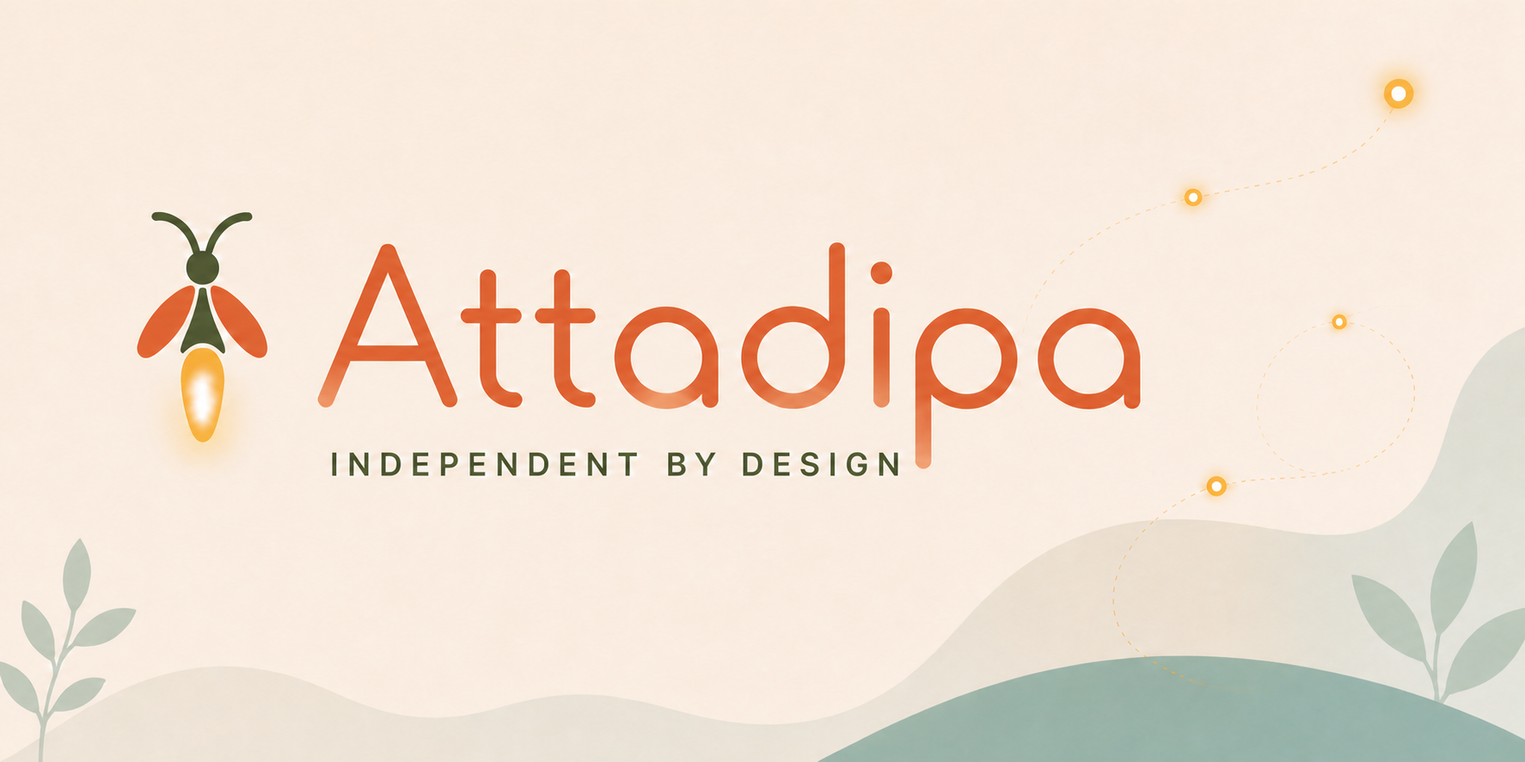
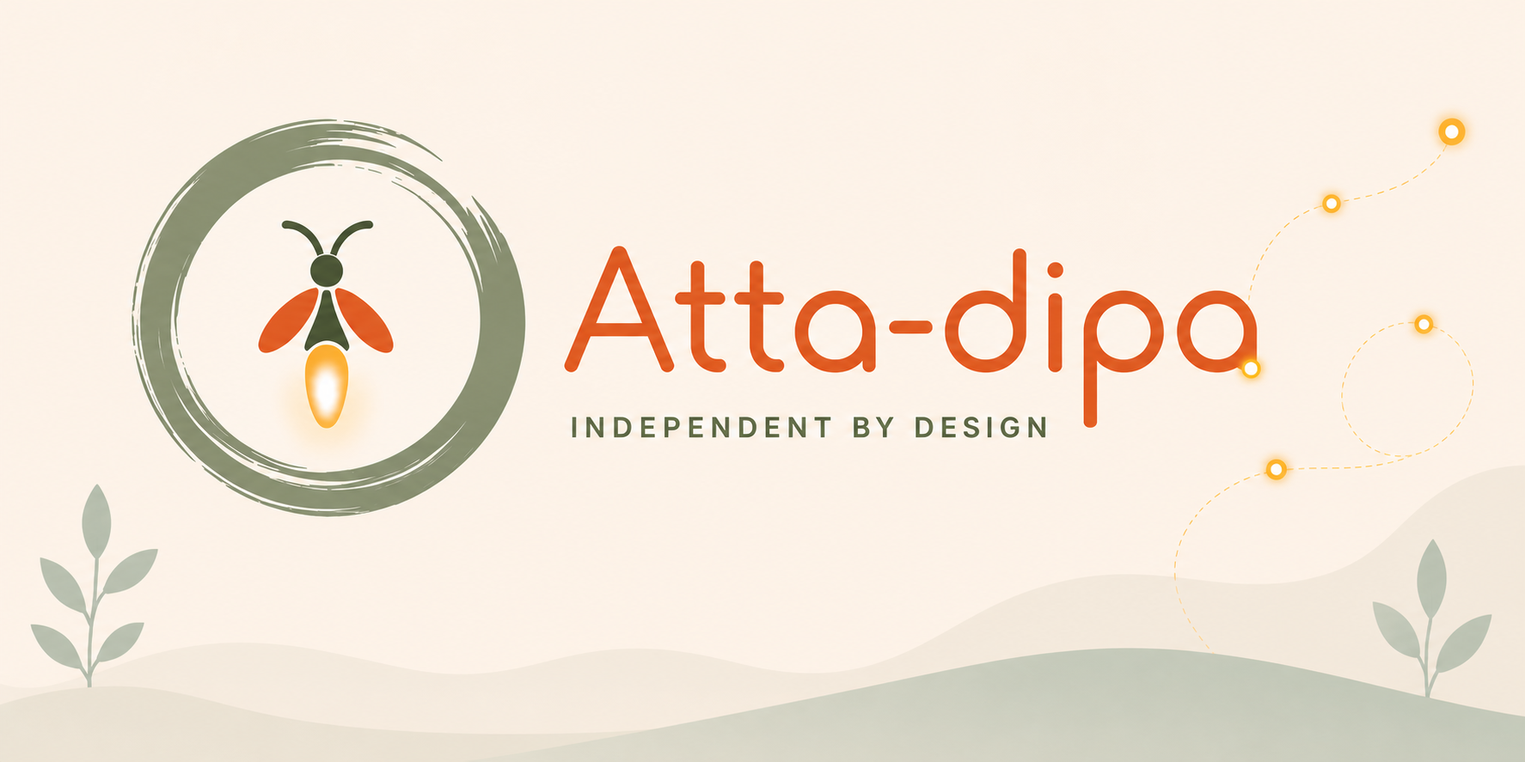
Brand public pages as Atta-dipa

diff --git a/docs/index.html b/docs/index.html
@@ -5,30 +5,30 @@
   <meta name="viewport" content="width=device-width, initial-scale=1">
   <meta name="theme-color" content="#FFF6E8">
   <meta name="color-scheme" content="light dark">
-  <title>Attadipa — open-source ESP32-S3 smartwatch firmware, LoRa mesh, offline GNSS</title>
+  <title>Atta-dipa — open-source ESP32-S3 smartwatch firmware, LoRa mesh, offline GNSS</title>
   <meta name="description" content="Open-source ESP32-S3 smartwatch firmware: LoRa MeshCore messaging, offline GNSS navigation, LVGL UI on FreeRTOS. Early stage — the firmware has not run on a board yet; only bench code has.">
   <meta name="robots" content="index, follow, max-image-preview:large, max-snippet:-1">
   <link rel="canonical" href="https://hleserg.github.io/Attadipa/">
   <link rel="alternate" type="text/html" hreflang="x-default" href="https://hleserg.github.io/Attadipa/">
 
   <meta property="og:type" content="website">
-  <meta property="og:site_name" content="Attadipa">
+  <meta property="og:site_name" content="Atta-dipa">
   <meta property="og:locale" content="en_US">
   <meta property="og:locale:alternate" content="ru_RU">
-  <meta property="og:title" content="Attadipa — open-source ESP32-S3 smartwatch firmware">
+  <meta property="og:title" content="Atta-dipa — open-source ESP32-S3 smartwatch firmware">
   <meta property="og:description" content="LoRa MeshCore messaging, offline GNSS navigation and an LVGL UI on FreeRTOS, on ESP32-S3. Early stage — the firmware has not run on a board yet; only bench code has.">
   <meta property="og:url" content="https://hleserg.github.io/Attadipa/">
   <meta property="og:image" content="https://hleserg.github.io/Attadipa/assets/og-card.jpg">
   <meta property="og:image:type" content="image/jpeg">
   <meta property="og:image:width" content="1734">
   <meta property="og:image:height" content="907">
-  <meta property="og:image:alt" content="The Attadipa firefly mark to the left of the wordmark Attadipa, with the line Independent by design beneath it.">
+  <meta property="og:image:alt" content="The Atta-dipa firefly mark to the left of the wordmark Atta-dipa, with the line Independent by design beneath it.">
 
   <meta name="twitter:card" content="summary_large_image">
-  <meta name="twitter:title" content="Attadipa — open-source ESP32-S3 smartwatch firmware">
+  <meta name="twitter:title" content="Atta-dipa — open-source ESP32-S3 smartwatch firmware">
   <meta name="twitter:description" content="LoRa MeshCore messaging, offline GNSS navigation and an LVGL UI on FreeRTOS, on ESP32-S3. Early stage — the firmware has not run on a board yet; only bench code has.">
   <meta name="twitter:image" content="https://hleserg.github.io/Attadipa/assets/og-card.jpg">
-  <meta name="twitter:image:alt" content="The Attadipa firefly mark to the left of the wordmark Attadipa, with the line Independent by design beneath it.">
+  <meta name="twitter:image:alt" content="The Atta-dipa firefly mark to the left of the wordmark Atta-dipa, with the line Independent by design beneath it.">
   <link rel="icon" type="image/png" href="assets/favicon.png">
   <link rel="apple-touch-icon" href="assets/apple-touch-icon.png">
   <link rel="manifest" href="manifest.webmanifest">
@@ -64,7 +64,7 @@
         "@type": "WebSite",
         "@id": "https://hleserg.github.io/Attadipa/#website",
         "url": "https://hleserg.github.io/Attadipa/",
-        "name": "Attadipa",
+        "name": "Atta-dipa",
         "description": "Open-source ESP32-S3 smartwatch firmware: LoRa MeshCore messaging, offline GNSS navigation, LVGL UI on FreeRTOS. Early stage — the firmware has not run on a board yet; only bench code has.",
         "inLanguage": ["en", "ru"],
         "publisher": { "@id": "https://github.com/hleserg#person" }
@@ -78,8 +78,8 @@
       {
         "@type": "SoftwareSourceCode",
         "@id": "https://hleserg.github.io/Attadipa/#source",
-        "name": "Attadipa",
-        "alternateName": "Attadipa smartwatch firmware platform",
+        "name": "Atta-dipa",
+        "alternateName": "Atta-dipa smartwatch firmware platform",
         "description": "Firmware and application platform for ESP32-S3 smartwatches. Board differences live behind a capability registry, so an application asks what the device can do rather than which device it is. Targets the LilyGO T-Watch S3 Plus and the Waveshare ESP32-S3-Touch-AMOLED-2.06. Early implementation: the host libraries and a two-geometry simulator build and pass their tests, the firmware has not run on a board yet; only bench code has.",
         "codeRepository": "https://github.com/hleserg/Attadipa",
         "url": "https://hleserg.github.io/Attadipa/",
@@ -90,7 +90,7 @@
         "runtimePlatform": ["ESP-IDF", "FreeRTOS"],
         "targetProduct": {
           "@type": "SoftwareApplication",
-          "name": "Attadipa",
+          "name": "Atta-dipa",
           "applicationCategory": "Smartwatch firmware",
           "operatingSystem": "FreeRTOS (ESP-IDF) on ESP32-S3",
           "featureList": [
@@ -134,9 +134,9 @@
 
   <header class="topbar" id="top">
     <div class="shell nav-shell">
-      <a class="brand" href="#top" aria-label="Attadipa home">
+      <a class="brand" href="#top" aria-label="Atta-dipa home">
         <img src="assets/favicon.png" alt="" width="34" height="34" decoding="async">
-        <span>Attadipa</span>
+        <span>Atta-dipa</span>
       </a>
       <nav class="nav-links" aria-label="Primary">
         <a href="#why"><span class="lang-en">Why</span><span class="lang-ru">Зачем</span></a>
@@ -149,7 +149,7 @@
           <button type="button" data-set-lang="en" aria-pressed="true">EN</button>
           <button type="button" data-set-lang="ru" aria-pressed="false">RU</button>
         </div>
-        <a class="github-mini" href="https://github.com/hleserg/Attadipa" target="_blank" rel="noreferrer" aria-label="Attadipa on GitHub">
+        <a class="github-mini" href="https://github.com/hleserg/Attadipa" target="_blank" rel="noreferrer" aria-label="Atta-dipa on GitHub">
           <svg viewBox="0 0 24 24" aria-hidden="true"><path d="M12 .8a11.4 11.4 0 0 0-3.6 22.2c.6.1.8-.3.8-.6v-2.2c-3.3.7-4-1.4-4-1.4-.5-1.4-1.3-1.8-1.3-1.8-1.1-.7.1-.7.1-.7 1.2.1 1.8 1.2 1.8 1.2 1.1 1.8 2.8 1.3 3.4 1 .1-.8.4-1.3.8-1.6-2.7-.3-5.5-1.3-5.5-5.7 0-1.3.5-2.3 1.2-3.1-.1-.3-.5-1.6.1-3.1 0 0 1-.3 3.1 1.2a10.7 10.7 0 0 1 5.6 0C14.8 5 15.8 5.3 15.8 5.3c.6 1.5.2 2.8.1 3.1.8.8 1.2 1.8 1.2 3.1 0 4.4-2.8 5.4-5.5 5.7.4.4.8 1.1.8 2.1v3.1c0 .4.2.7.8.6A11.4 11.4 0 0 0 12 .8Z"/></svg>
         </a>
       </div>
@@ -168,10 +168,10 @@
           <span class="lang-en" lang="en">Useful when your phone isn't.</span>
           <span class="lang-ru" lang="ru">Часы, которые полезны без телефона.</span>
         </h1>
-        <p class="hero-lead lang-en" lang="en">Attadipa is an open-source firmware and application platform being built for ESP32-S3 smartwatches: LoRa mesh messaging over MeshCore, offline GNSS navigation, clean app APIs over LVGL and FreeRTOS, and a UI meant to feel like a real product.</p>
-        <p class="hero-lead lang-ru" lang="ru">Attadipa — открытая прошивка и платформа приложений для умных часов на ESP32-S3: LoRa mesh-связь через MeshCore, офлайн-навигация по GNSS, чистые API для приложений поверх LVGL и FreeRTOS и интерфейс, который должен ощущаться как настоящий продукт.</p>
-        <p class="project-name-note lang-en" lang="en"><em>Attadipa</em> comes from Pāli <em>attadīpa</em>: “self-reliant; one’s own island or refuge.” It is a quiet reminder that the essentials should work without a phone or cloud.</p>
-        <p class="project-name-note lang-ru" lang="ru"><em>Attadipa</em> — от палийского <em>attadīpa</em>: «опирающийся на себя; собственный остров или прибежище». Это ненавязчивое напоминание: главное должно работать без телефона и облака.</p>
+        <p class="hero-lead lang-en" lang="en">Atta-dipa is an open-source firmware and application platform being built for ESP32-S3 smartwatches: LoRa mesh messaging over MeshCore, offline GNSS navigation, clean app APIs over LVGL and FreeRTOS, and a UI meant to feel like a real product.</p>
+        <p class="hero-lead lang-ru" lang="ru">Atta-dipa — открытая прошивка и платформа приложений для умных часов на ESP32-S3: LoRa mesh-связь через MeshCore, офлайн-навигация по GNSS, чистые API для приложений поверх LVGL и FreeRTOS и интерфейс, который должен ощущаться как настоящий продукт.</p>
+        <p class="project-name-note lang-en" lang="en"><em>Atta-dipa</em> comes from Pāli <em>attadīpa</em>: “self-reliant; one’s own island or refuge.” It is a quiet reminder that the essentials should work without a phone or cloud.</p>
+        <p class="project-name-note lang-ru" lang="ru"><em>Atta-dipa</em> — от палийского <em>attadīpa</em>: «опирающийся на себя; собственный остров или прибежище». Это ненавязчивое напоминание: главное должно работать без телефона и облака.</p>
         <div class="hero-actions">
           <a class="btn primary" href="https://github.com/hleserg/Attadipa" target="_blank" rel="noreferrer">
             <span class="lang-en">View on GitHub</span><span class="lang-ru">Открыть GitHub</span>
@@ -185,21 +185,21 @@
           <span>MIT</span><i></i><span>ESP-IDF / FreeRTOS</span><i></i><span>MeshCore</span><i></i><span>EN + RU</span>
         </div>
       </div>
-      <div class="hero-art reveal reveal-delay" aria-label="Attadipa brand banner">
+      <div class="hero-art reveal reveal-delay" aria-label="Atta-dipa brand banner">
         <img src="assets/banner.webp" width="1774" height="887" fetchpriority="high" decoding="async"
-             alt="The Attadipa wordmark beside a firefly, over the line Independent by design.">
+             alt="The Atta-dipa wordmark beside a firefly, over the line Independent by design.">
         <span class="glow g1"></span><span class="glow g2"></span><span class="glow g3"></span>
       </div>
     </section>
 
     <section class="section shell" id="why">
       <div class="section-heading narrow reveal">
-        <span class="kicker lang-en">Why Attadipa exists</span>
-        <span class="kicker lang-ru">Зачем появился Attadipa</span>
+        <span class="kicker lang-en">Why Atta-dipa exists</span>
+        <span class="kicker lang-ru">Зачем появился Atta-dipa</span>
         <h2 class="lang-en" lang="en">I wanted a smartwatch that still makes sense when the network disappears.</h2>
         <h2 class="lang-ru" lang="ru">Мне нужны были часы, которые не теряют смысл вместе с мобильной сетью.</h2>
-        <p class="lang-en" lang="en">I could find open smartwatch firmware, mesh projects, navigation tools, and polished commercial ecosystems — but not one open platform that put the pieces together the way I wanted: hardware-aware, mesh-native, extensible with useful apps, independent of a phone, and pleasant enough to wear every day. So Attadipa started there.</p>
-        <p class="lang-ru" lang="ru">Я нашёл открытые прошивки для часов, mesh-проекты, навигационные инструменты и отполированные коммерческие экосистемы — но не нашёл одной открытой платформы, где всё это было бы собрано так, как хотелось: с пониманием реального железа, mesh изначально в архитектуре, нормальным каркасом для полезных приложений, независимостью от телефона и интерфейсом, которым приятно пользоваться каждый день. С этого и начался Attadipa.</p>
+        <p class="lang-en" lang="en">I could find open smartwatch firmware, mesh projects, navigation tools, and polished commercial ecosystems — but not one open platform that put the pieces together the way I wanted: hardware-aware, mesh-native, extensible with useful apps, independent of a phone, and pleasant enough to wear every day. So Atta-dipa started there.</p>
+        <p class="lang-ru" lang="ru">Я нашёл открытые прошивки для часов, mesh-проекты, навигационные инструменты и отполированные коммерческие экосистемы — но не нашёл одной открытой платформы, где всё это было бы собрано так, как хотелось: с пониманием реального железа, mesh изначально в архитектуре, нормальным каркасом для полезных приложений, независимостью от телефона и интерфейсом, которым приятно пользоваться каждый день. С этого и начался Atta-dipa.</p>
       </div>
 
       <div class="feature-grid">
@@ -218,8 +218,8 @@
         <article class="feature-card reveal">
           <div class="feature-icon teal">⋯</div>
           <h3><span class="lang-en">Mesh without the cloud</span><span class="lang-ru">Mesh без облака</span></h3>
-          <p class="lang-en">MeshCore interoperability is a first-class path. A capable watch can use local radio; another watch can receive the same service from an Attadipa Node.</p>
-          <p class="lang-ru">Совместимость с MeshCore — один из основных сценариев. Часы с подходящим радио используют его локально, а другая модель может получить тот же сервис от Attadipa Node.</p>
+          <p class="lang-en">MeshCore interoperability is a first-class path. A capable watch can use local radio; another watch can receive the same service from an Atta-dipa Node.</p>
+          <p class="lang-ru">Совместимость с MeshCore — один из основных сценариев. Часы с подходящим радио используют его локально, а другая модель может получить тот же сервис от Atta-dipa Node.</p>
         </article>
         <article class="feature-card reveal">
           <div class="feature-icon green">↗</div>
@@ -249,14 +249,14 @@
           <span class="kicker lang-ru">Одна платформа, разное железо</span>
           <h2 class="lang-en">Apps ask what the device can do — not what is soldered to it.</h2>
           <h2 class="lang-ru">Приложение спрашивает, что устройство умеет, а не что к нему припаяно.</h2>
-          <p class="lang-en">Attadipa is not a Linux-like operating system. It is a single embedded firmware/application platform on ESP-IDF/FreeRTOS. Board-specific details stay below the service boundary, while capabilities can appear or disappear at runtime as local hardware or an Attadipa Node becomes available.</p>
-          <p class="lang-ru">Attadipa — не Linux-подобная операционная система. Это единая встроенная прошивка и платформа приложений поверх ESP-IDF/FreeRTOS. Особенности конкретной платы остаются ниже сервисного слоя, а возможности могут появляться и исчезать во время работы — например, когда становится доступен локальный модуль или Attadipa Node.</p>
+          <p class="lang-en">Atta-dipa is not a Linux-like operating system. It is a single embedded firmware/application platform on ESP-IDF/FreeRTOS. Board-specific details stay below the service boundary, while capabilities can appear or disappear at runtime as local hardware or an Atta-dipa Node becomes available.</p>
+          <p class="lang-ru">Atta-dipa — не Linux-подобная операционная система. Это единая встроенная прошивка и платформа приложений поверх ESP-IDF/FreeRTOS. Особенности конкретной платы остаются ниже сервисного слоя, а возможности могут появляться и исчезать во время работы — например, когда становится доступен локальный модуль или Atta-dipa Node.</p>
           <a class="text-link" href="https://github.com/hleserg/Attadipa/tree/main/docs/adr" target="_blank" rel="noreferrer">
             <span class="lang-en">Read the architecture decisions</span><span class="lang-ru">Посмотреть архитектурные решения</span> <span>↗</span>
           </a>
         </div>
 
-        <div class="architecture reveal reveal-delay" aria-label="Attadipa capability architecture">
+        <div class="architecture reveal reveal-delay" aria-label="Atta-dipa capability architecture">
           <div class="arch-row apps-row">
             <span>Clock</span><span>Navigator</span><span>Messages</span><span>Apps…</span>
           </div>
@@ -268,7 +268,7 @@
           <div class="arch-arrow">↓</div>
           <div class="arch-providers">
             <div><small><span class="lang-en">Local provider</span><span class="lang-ru">Локальный источник</span></small><strong>Board hardware</strong></div>
-            <div><small><span class="lang-en">Remote provider</span><span class="lang-ru">Удалённый источник</span></small><strong>Attadipa Node</strong></div>
+            <div><small><span class="lang-en">Remote provider</span><span class="lang-ru">Удалённый источник</span></small><strong>Atta-dipa Node</strong></div>
           </div>
           <div class="arch-foot"><span class="pulse-dot"></span><span class="lang-en">Same app API. Different capability source.</span><span class="lang-ru">Один API приложения. Разные источники возможностей.</span></div>
         </div>
@@ -292,14 +292,14 @@
         <article class="hardware-card reveal">
           <div class="hw-top"><span class="chip">SECOND TARGET · ON THE DESK</span><span class="hw-dot teal-dot"></span></div>
           <h3>Waveshare ESP32-S3 Touch AMOLED 2.06</h3>
-          <p class="lang-en">A larger AMOLED target with no onboard sub-GHz mesh radio and no onboard GNSS. Those capabilities can be supplied by a separate Attadipa Node.</p>
-          <p class="lang-ru">Модель с большим AMOLED-дисплеем, но без встроенного sub-GHz mesh-радио и GNSS. Эти возможности может предоставлять отдельный Attadipa Node.</p>
+          <p class="lang-en">A larger AMOLED target with no onboard sub-GHz mesh radio and no onboard GNSS. Those capabilities can be supplied by a separate Atta-dipa Node.</p>
+          <p class="lang-ru">Модель с большим AMOLED-дисплеем, но без встроенного sub-GHz mesh-радио и GNSS. Эти возможности может предоставлять отдельный Atta-dipa Node.</p>
           <p class="lang-en">One unit is here and has answered for itself over its own USB port: factory-default eFuses, 8&nbsp;MB PSRAM on the memory rail, external quad flash, chip revision v0.2. Nothing has been burned, and nothing has been measured.</p>
           <p class="lang-ru">Одна плата уже здесь и ответила за себя через собственный USB-порт: eFuse на заводских значениях, 8&nbsp;МБ PSRAM на линии памяти, внешняя quad-флеш, ревизия кристалла v0.2. Ничего не прожжено — и ничего не измерено.</p>
         </article>
         <article class="hardware-card node-card reveal">
           <div class="hw-top"><span class="chip node-chip">COMPANION HARDWARE</span><span class="hw-dot amber-dot"></span></div>
-          <h3>Attadipa Node</h3>
+          <h3>Atta-dipa Node</h3>
           <p class="lang-en">A dedicated device intended to carry mesh radio, GNSS and potentially other sensors. It is not a phone replacement; it is another capability provider.</p>
           <p class="lang-ru">Отдельное устройство с mesh-радио, GNSS и, возможно, другими датчиками. Это не замена телефона, а ещё один источник возможностей для часов.</p>
         </article>
@@ -316,15 +316,15 @@
       <div class="shell design-grid">
         <div class="design-board reveal">
           <img src="assets/style-board.webp" width="1448" height="1086" loading="lazy" decoding="async"
-               alt="Attadipa design board: the Warm Ivory and Ink Olive palette, the Nunito Sans and Inter type specimens, rounded card shapes and the firefly mark.">
+               alt="Atta-dipa design board: the Warm Ivory and Ink Olive palette, the Nunito Sans and Inter type specimens, rounded card shapes and the firefly mark.">
         </div>
         <div class="design-copy reveal reveal-delay">
           <span class="kicker lang-en">Design is architecture too</span><span class="kicker lang-ru">Дизайн — тоже часть архитектуры</span>
           <h2><span class="lang-en">Warm, glanceable, calm — and still grown-up.</span><span class="lang-ru">Тёплый, понятный с одного взгляда, спокойный — и при этом взрослый.</span></h2>
           <p class="lang-en">The visual language is intentionally soft without turning the watch into a toy. Semantic design tokens, board-aware spacing, day/night themes, contextual mascot poses and measured asset budgets keep the look consistent without hiding hardware limits.</p>
           <p class="lang-ru">Визуальный язык намеренно мягкий, но часы не должны превращаться в игрушку. Семантические дизайн-токены, масштабирование под конкретный экран, дневная и ночная темы, уместные состояния маскота и измеряемый бюджет графики позволяют сохранять стиль, не скрывая ограничения железа.</p>
-          <div class="palette" aria-label="Attadipa color palette">
-            <span style="--c:#FF8A40" title="Attadipa Orange"></span>
+          <div class="palette" aria-label="Atta-dipa color palette">
+            <span style="--c:#FF8A40" title="Atta-dipa Orange"></span>
             <span style="--c:#FFC857" title="Glow Amber"></span>
             <span style="--c:#6FA07A" title="Meadow Green"></span>
             <span style="--c:#A7B49C" title="Leaf Sage"></span>
@@ -363,16 +363,16 @@
     <section class="section ideas-band" id="ideas">
       <div class="shell ideas-grid">
         <div class="ideas-art reveal" aria-hidden="true">
-          <img src="assets/mascot.webp" width="1270" height="1239" loading="lazy" decoding="async" alt="">
+          <img src="assets/mascot.webp" width="660" height="650" loading="lazy" decoding="async" alt="">
           <div class="idea-orbit o1"></div><div class="idea-orbit o2"></div><div class="idea-orbit o3"></div>
         </div>
         <div class="ideas-copy reveal reveal-delay">
           <span class="kicker lang-en">Community app ideas</span><span class="kicker lang-ru">Идеи приложений от сообщества</span>
           <h2><span class="lang-en">What should a smartwatch actually do?</span><span class="lang-ru">Что на самом деле должны уметь умные часы?</span></h2>
-          <p class="lang-en">Too many watch apps are phone features squeezed onto a smaller screen. Attadipa wants a better question: what is genuinely useful on your wrist — especially when you have seconds to act, no signal, or a group of people to stay connected with?</p>
-          <p class="lang-ru">Слишком многие приложения для часов — это функции телефона, ужатые на маленький экран. Attadipa предлагает другой вопрос: что действительно полезно иметь на запястье — особенно когда на действие есть несколько секунд, связи нет или рядом целая группа людей?</p>
-          <p class="lang-en">Meet Lumar, Attadipa’s firefly mascot — a small reminder that useful technology can stay warm and human.</p>
-          <p class="lang-ru">Знакомьтесь: Lumar, маскот-светлячок Attadipa, — маленькое напоминание, что полезная технология может оставаться тёплой и человечной.</p>
+          <p class="lang-en">Too many watch apps are phone features squeezed onto a smaller screen. Atta-dipa wants a better question: what is genuinely useful on your wrist — especially when you have seconds to act, no signal, or a group of people to stay connected with?</p>
+          <p class="lang-ru">Слишком многие приложения для часов — это функции телефона, ужатые на маленький экран. Atta-dipa предлагает другой вопрос: что действительно полезно иметь на запястье — особенно когда на действие есть несколько секунд, связи нет или рядом целая группа людей?</p>
+          <p class="lang-en">Meet Lumar, Atta-dipa’s firefly mascot — a small reminder that useful technology can stay warm and human.</p>
+          <p class="lang-ru">Знакомьтесь: Lumar, маскот-светлячок Atta-dipa, — маленькое напоминание, что полезная технология может оставаться тёплой и человечной.</p>
           <div class="idea-pills">
             <span><b>↗</b><span class="lang-en">Offline friend coordinates</span><span class="lang-ru">Координаты друзей офлайн</span></span>
             <span><b>⌖</b><span class="lang-en">Find my camp</span><span class="lang-ru">Вернуться в лагерь</span></span>
@@ -380,7 +380,7 @@
             <span><b>＋</b><span class="lang-en">Your idea</span><span class="lang-ru">Ваша идея</span></span>
           </div>
           <a class="btn primary big" href="https://github.com/hleserg/Attadipa/discussions" target="_blank" rel="noreferrer"><span class="lang-en">Suggest an app in Discussions</span><span class="lang-ru">Предложить приложение в Discussions</span> ↗</a>
-          <p class="queue-note"><span class="lang-en"><strong>Discussions</strong> are the open community space. <strong>Issues</strong> are Attadipa's executable engineering queue for maintainers and agents.</span><span class="lang-ru"><strong>Discussions</strong> — открытое место для идей и обсуждений. <strong>Issues</strong> — исполняемая инженерная очередь Attadipa для maintainer'ов и агентов.</span></p>
+          <p class="queue-note"><span class="lang-en"><strong>Discussions</strong> are the open community space. <strong>Issues</strong> are Atta-dipa's executable engineering queue for maintainers and agents.</span><span class="lang-ru"><strong>Discussions</strong> — открытое место для идей и обсуждений. <strong>Issues</strong> — исполняемая инженерная очередь Atta-dipa для maintainer'ов и агентов.</span></p>
         </div>
       </div>
     </section>
@@ -392,14 +392,14 @@
           <h2><span class="lang-en">Research, code, mistakes, measurements — visible.</span><span class="lang-ru">Исследования, код, ошибки и измерения — на виду.</span></h2>
           <p class="lang-en">Architecture decisions, verified hardware facts, unresolved conflicts, upstream reviews and the roadmap live in the repository. Technical claims are expected to earn their confidence level.</p>
           <p class="lang-ru">Архитектурные решения, проверенные факты о железе, нерешённые противоречия, upstream-обзоры и план работ живут прямо в репозитории. Техническим утверждениям здесь полагается заслужить свой уровень уверенности.</p>
-          <p class="contact-note lang-en">Want to talk about Attadipa, hardware, useful watch apps, or just throw an idea around? I’m happy to chat — <a href="https://t.me/skhlebnikov" target="_blank" rel="noreferrer">Telegram @skhlebnikov ↗</a></p>
-          <p class="contact-note lang-ru">Хочешь обсудить Attadipa, железо, полезные приложения для часов или просто покидаться идеями? Пиши, с удовольствием поболтаю — <a href="https://t.me/skhlebnikov" target="_blank" rel="noreferrer">Telegram @skhlebnikov ↗</a></p>
+          <p class="contact-note lang-en">Want to talk about Atta-dipa, hardware, useful watch apps, or just throw an idea around? I’m happy to chat — <a href="https://t.me/skhlebnikov" target="_blank" rel="noreferrer">Telegram @skhlebnikov ↗</a></p>
+          <p class="contact-note lang-ru">Хочешь обсудить Atta-dipa, железо, полезные приложения для часов или просто покидаться идеями? Пиши, с удовольствием поболтаю — <a href="https://t.me/skhlebnikov" target="_blank" rel="noreferrer">Telegram @skhlebnikov ↗</a></p>
         </div>
         <div class="contribute-links">
           <a href="https://github.com/hleserg/Attadipa" target="_blank" rel="noreferrer"><strong>GitHub</strong><span>github.com/hleserg/Attadipa</span><b>↗</b></a>
           <a href="https://github.com/hleserg/Attadipa/tree/main/docs/research" target="_blank" rel="noreferrer"><strong><span class="lang-en">Research</span><span class="lang-ru">Исследования</span></strong><span>docs/research</span><b>↗</b></a>
           <a href="https://github.com/hleserg/Attadipa/discussions" target="_blank" rel="noreferrer"><strong>Discussions</strong><span class="lang-en">Ideas & questions</span><span class="lang-ru">Идеи и вопросы</span><b>↗</b></a>
-          <a href="https://t.me/skhlebnikov" target="_blank" rel="noreferrer"><strong>Telegram · @skhlebnikov</strong><span class="lang-en">Come say hi and talk Attadipa</span><span class="lang-ru">Написать мне и поболтать про Attadipa</span><b>↗</b></a>
+          <a href="https://t.me/skhlebnikov" target="_blank" rel="noreferrer"><strong>Telegram · @skhlebnikov</strong><span class="lang-en">Come say hi and talk Atta-dipa</span><span class="lang-ru">Написать мне и поболтать про Atta-dipa</span><b>↗</b></a>
         </div>
       </div>
     </section>
@@ -407,7 +407,7 @@
 
   <footer class="footer">
     <div class="shell footer-inner">
-      <div class="footer-brand"><img src="assets/favicon.png" width="28" height="28" alt="" loading="lazy" decoding="async"><span>Attadipa</span><small>Independent by design</small></div>
+      <div class="footer-brand"><img src="assets/favicon.png" width="28" height="28" alt="" loading="lazy" decoding="async"><span>Atta-dipa</span><small>Independent by design</small></div>
       <p><span class="lang-en">Open source under the MIT License. Early development — claims on this page describe both current state and explicit product goals as labelled.</span><span class="lang-ru">Открытый проект под лицензией MIT. Разработка на раннем этапе: на странице отдельно описаны текущее состояние и заявленные цели продукта.</span></p>
       <a href="#top"><span class="lang-en">Back to top</span><span class="lang-ru">Наверх</span> ↑</a>
     </div>

diff --git a/docs/assets/site.js b/docs/assets/site.js
@@ -40,16 +40,16 @@
   // board; bench code has.
   const copy = {
     en: {
-      title: 'Attadipa — open-source ESP32-S3 smartwatch firmware, LoRa mesh, offline GNSS',
-      ogTitle: 'Attadipa — open-source ESP32-S3 smartwatch firmware',
+      title: 'Atta-dipa — open-source ESP32-S3 smartwatch firmware, LoRa mesh, offline GNSS',
+      ogTitle: 'Atta-dipa — open-source ESP32-S3 smartwatch firmware',
       locale: 'en_US',
       localeAlternate: 'ru_RU',
       description: 'Open-source ESP32-S3 smartwatch firmware: LoRa MeshCore messaging, offline GNSS navigation, LVGL UI on FreeRTOS. Early stage — the firmware has not run on a board yet; only bench code has.',
       cardDescription: 'LoRa MeshCore messaging, offline GNSS navigation and an LVGL UI on FreeRTOS, on ESP32-S3. Early stage — the firmware has not run on a board yet; only bench code has.'
     },
     ru: {
-      title: 'Attadipa — открытая прошивка для умных часов на ESP32-S3, LoRa mesh, GNSS офлайн',
-      ogTitle: 'Attadipa — открытая прошивка для умных часов на ESP32-S3',
+      title: 'Atta-dipa — открытая прошивка для умных часов на ESP32-S3, LoRa mesh, GNSS офлайн',
+      ogTitle: 'Atta-dipa — открытая прошивка для умных часов на ESP32-S3',
       locale: 'ru_RU',
       localeAlternate: 'en_US',
       description: 'Открытая прошивка для умных часов на ESP32-S3: LoRa-переписка через MeshCore, офлайн-навигация по GNSS, интерфейс LVGL на FreeRTOS. Ранняя стадия — прошивка ещё не запускалась на плате; запускался только стендовый код.',

diff --git a/docs/404.html b/docs/404.html
@@ -1,1 +1,1 @@
-<!doctype html><html lang="en"><meta charset="utf-8"><meta name="viewport" content="width=device-width,initial-scale=1"><title>Attadipa — 404</title><style>body{margin:0;min-height:100vh;display:grid;place-items:center;background:#FFF6E8;color:#2F3A2E;font:18px system-ui;text-align:center}a{color:#e66f30;font-weight:700}</style><main><h1>404</h1><p>That path went dark. / Здесь светлячок погас.</p><a href="./">Attadipa →</a></main></html>
+<!doctype html><html lang="en"><meta charset="utf-8"><meta name="viewport" content="width=device-width,initial-scale=1"><title>Atta-dipa — 404</title><style>body{margin:0;min-height:100vh;display:grid;place-items:center;background:#FFF6E8;color:#2F3A2E;font:18px system-ui;text-align:center}a{color:#e66f30;font-weight:700}</style><main><h1>404</h1><p>That path went dark. / Здесь светлячок погас.</p><a href="./">Atta-dipa →</a></main></html>

diff --git a/README.md b/README.md
@@ -1,12 +1,12 @@
 <p align="center">
   <img src="pics/AttadipaBanner.png"
-       alt="Attadipa — Lumar, a firefly with a glowing amber abdomen, beside the wordmark and the motto Independent by design"
+       alt="Atta-dipa — Lumar, a firefly with a glowing amber abdomen, beside the wordmark and the motto Independent by design"
        width="820">
 </p>
 
 **English** · [Русский](README.ru.md) · [Project page](https://hleserg.github.io/Attadipa/)
 
-# Attadipa
+# Atta-dipa
 
 A wearable firmware platform for ESP32-S3 smartwatches — mesh messaging,
 offline navigation, and a UI that is meant to be genuinely pleasant to use.
@@ -16,7 +16,7 @@ offline navigation, and a UI that is meant to be genuinely pleasant to use.
 > GNSS trust evaluator, the design-token system, the desktop simulator, and 30
 > host tests. One target board is now on the owner's desk and has been read over
 > its own USB port, which is the first evidence in this repository that came
-> from silicon rather than from a document. **The T-165 Attadipa firmware now
+> from silicon rather than from a document. **The T-165 Atta-dipa firmware now
 > boots on it from flash** and has measured the flash, octal PSRAM and development
 > partition table. Display, touch, PMU, RTC, power, timing and GNSS remain
 > unexercised. See [STATUS.md](STATUS.md) for exactly where things stand.
@@ -30,7 +30,7 @@ offline navigation, and a UI that is meant to be genuinely pleasant to use.
 | **Runs two geometries from one binary** | 240 × 240 and 410 × 502, selected at run time, fitting any of the five candidate T-Watch radios and a present-or-absent node without a rebuild |
 | **Draws through design tokens** | twelve colour roles across day and night themes with WCAG contrast arithmetic, plus a CI check that refuses a raw hex value or a pixel count back into screen code |
 | **Renders every character it claims to** | four generated Montserrat subsets covering all 181 codepoints of the charset; an undrawable codepoint **fails the run** rather than printing a warning |
-| **Has one board on the desk** | a Waveshare ESP32-S3 Touch AMOLED 2.06 running Attadipa T-165 from flash: chip revision v0.2, physical flash `0xC8 0x4019` (32 MB) behind a deliberate 16 MB build ceiling, and 8 MB octal PSRAM initialised and tested |
+| **Has one board on the desk** | a Waveshare ESP32-S3 Touch AMOLED 2.06 running Atta-dipa T-165 from flash: chip revision v0.2, physical flash `0xC8 0x4019` (32 MB) behind a deliberate 16 MB build ceiling, and 8 MB octal PSRAM initialised and tested |
 | **Hardware evidence has a narrow boundary** | boot, flash/PSRAM diagnostics, the development partition table and a 30-second PURE_RAM run are measured. Display, touch, PMU rails, RTC, power, timing, GNSS and interference are not; the hardware plans keep those claims visibly unproven |
 | **Runs its own engineering queue** | work arrives as a GitHub issue, an agent opens a branch and a draft pull request, and a second agent reviews it independently. The workflows, their security model and their cost controls are in [`docs/automation/`](docs/automation/CLAUDE_AUTOMATION.md) |
 
@@ -41,7 +41,7 @@ T-166: the Waveshare display, touch controller, PMU rails and RTC, followed by a
 real Clock and then sleep/wake. [`docs/ROADMAP.md`](docs/ROADMAP.md) is the whole
 plan and the reasoning behind it.
 
-Attadipa is not a Linux-like OS. It is a single embedded
+Atta-dipa is not a Linux-like OS. It is a single embedded
 firmware/application platform on top of ESP32-S3 and ESP-IDF/FreeRTOS,
 designed to support several watch models from one codebase.
 
@@ -56,7 +56,7 @@ designed to support several watch models from one codebase.
 - **Independent of your phone.** Mesh messaging, navigation, and time work with
   no companion app and no internet. A phone is an optional companion, never the
   brain of the watch. Where a capability needs hardware a particular watch does
-  not have, it comes from a **Attadipa node** — a dedicated box built for this,
+  not have, it comes from a **Atta-dipa node** — a dedicated box built for this,
   not a handset — and the interface says which situation it is in rather than
   pretending.
 - **Mesh-native.** Long-range LoRa messaging built on
@@ -82,12 +82,12 @@ designed to support several watch models from one codebase.
 |---|---|---|
 | LilyGO T-Watch S3 Plus | first target — the full product | LoRa + GNSS |
 | Waveshare ESP32-S3 Touch AMOLED 2.06 | second target | **neither** |
-| Attadipa node | separate device — LoRa, GNSS, ESP32 | provides both, over a link |
+| Atta-dipa node | separate device — LoRa, GNSS, ESP32 | provides both, over a link |
 | Desktop simulator | first-class development target | simulated, including the node |
 
 The second board has no sub-GHz radio and no GNSS receiver. That is not an
 oversight in the plan — it is the reason the capability layer exists. Nor does
-it make that board a lesser device: a **Attadipa node** is a separate box
+it make that board a lesser device: a **Atta-dipa node** is a separate box
 carrying LoRa, GNSS and an ESP32, and a watch attached to one runs the same
 applications a watch with its own radio runs. Mesh and navigation are
 unavailable there *without a node*, and the interface says which of those two
@@ -133,7 +133,7 @@ somebody measures them. A datasheet number is not a measurement.
 **Capability-driven, in two layers.** Applications ask what the device can
 *do* — `availability(Capability::Position)` — and never what is on it. They do
 not learn which GPIO powers the GNSS module, which SPI the radio sits on, or
-whether there is a GNSS module at all: an Attadipa node supplies one over a link,
+whether there is a GNSS module at all: an Atta-dipa node supplies one over a link,
 and the answer is the same shape either way. The hardware inventory is a
 separate layer that lives below the service boundary and is not linked into
 applications, so asking a chip a question is a build error rather than a review
@@ -183,7 +183,7 @@ cmake/                         the pinned LVGL dependency
 
 docs/master-prompt-final.md    product specification (source of truth)
 docs/research/                 verified facts, owner decisions, open questions, deps, reuse ledger
-docs/node/                     the Attadipa node — mostly what is *not* known about it
+docs/node/                     the Atta-dipa node — mostly what is *not* known about it
 docs/hardware/                 interference matrix, board notes
 docs/architecture/             architecture, resource budget
 docs/adr/                      architecture decision records
@@ -222,7 +222,7 @@ cmake --build build-sim
 ```
 --board <id>      t-watch-s3-plus (240x240) | waveshare-amoled-206 (410x502)
 --radio <chip>    fit any of the five candidate T-Watch radios
---node            present a paired, reachable Attadipa node
+--node            present a paired, reachable Atta-dipa node
 --no-bring-up     leave every part untouched, to see the unavailable states
 --screenshot <p>  write the screen to a PNG
 --frames <n>      render n frames and exit; with SDL_VIDEODRIVER=dummy, headless

diff --git a/pics/README.md b/pics/README.md
@@ -7,9 +7,9 @@ they are.
 
 | File | Format | SHA-256 | Intended use |
 |---|---|---|---|
[6 lines of base64/hex data omitted]
 
 ## What the banner establishes
 
@@ -20,7 +20,7 @@ they are.
   two orange-red wings, and an amber abdomen with a real glow behind it. The
   glow is the only light source in the composition, which is worth knowing
   before anybody re-draws it smaller.
-- **The wordmark.** "Attadipa" in orange, in a rounded
+- **The wordmark.** "Atta-dipa" in orange, in a rounded
   geometric sans consistent with the Nunito Sans direction in
   [`../docs/ui/DESIGN_SYSTEM.md`](../docs/ui/DESIGN_SYSTEM.md). The typeface has
   **not** been identified from the file and no font here is pinned.
